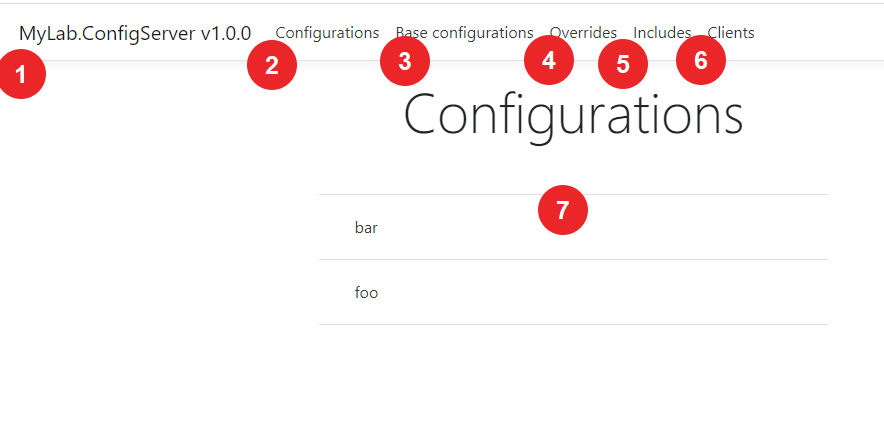
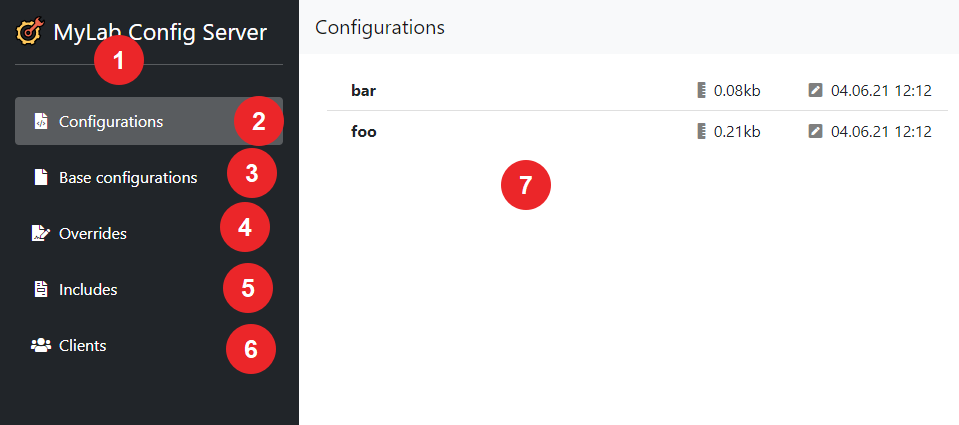
Update readme and changelog

diff --git a/README.md b/README.md
@@ -1,6 +1,6 @@
 # MyLab.ConfigServer
 
-[![Docker image](https://img.shields.io/docker/v/ozzyext/mylab-config-server?sort=semver)](https://hub.docker.com/r/ozzyext/mylab-config-server)
+[![Docker image](https://img.shields.io/docker/v/mylabtools/config-server?sort=semver)](https://hub.docker.com/r/mylabtools/config-server)
 
 Веб-приложение, предоставляющее доступ к конфигурационным данным по протоколу `HTTP`.
 

diff --git a/CHANGELOG.md b/CHANGELOG.md
@@ -4,6 +4,13 @@
 
 Формат лога изменений базируется на [Keep a Changelog](https://keepachangelog.com/en/1.0.0/).
 
+## [1.2.12] - 2021-07-08
+
+### Изменено
+
+* Переработка интерфейса под технологию `Blazor`
+* Перенос в другую учётную запись `docker`: `mylabtools/config-server` 
+
 ## [1.1.12] - 2021-06-04
 
 ### Исправлено
